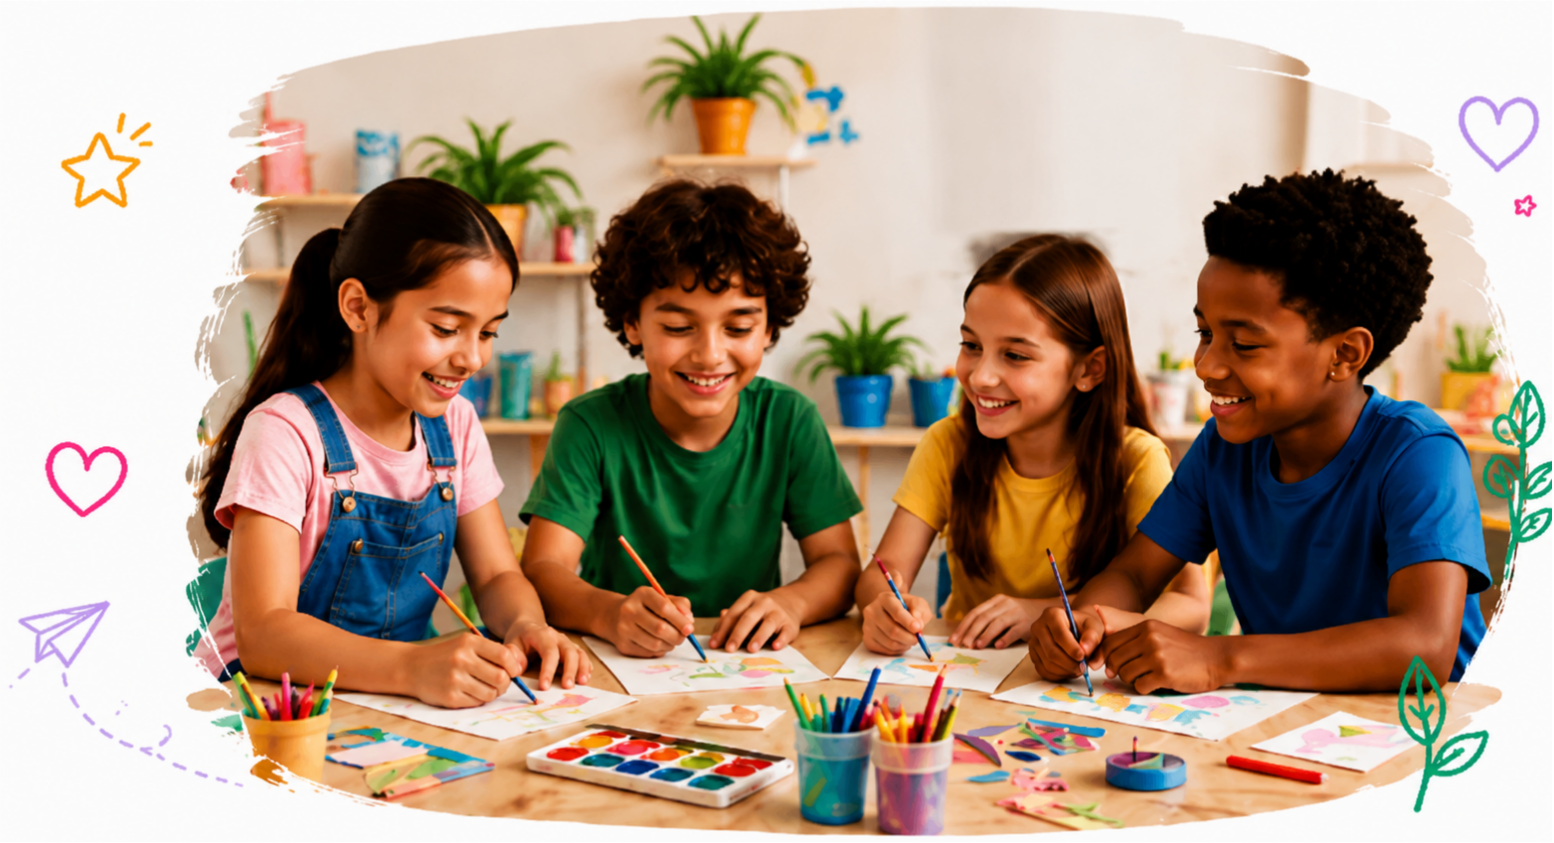
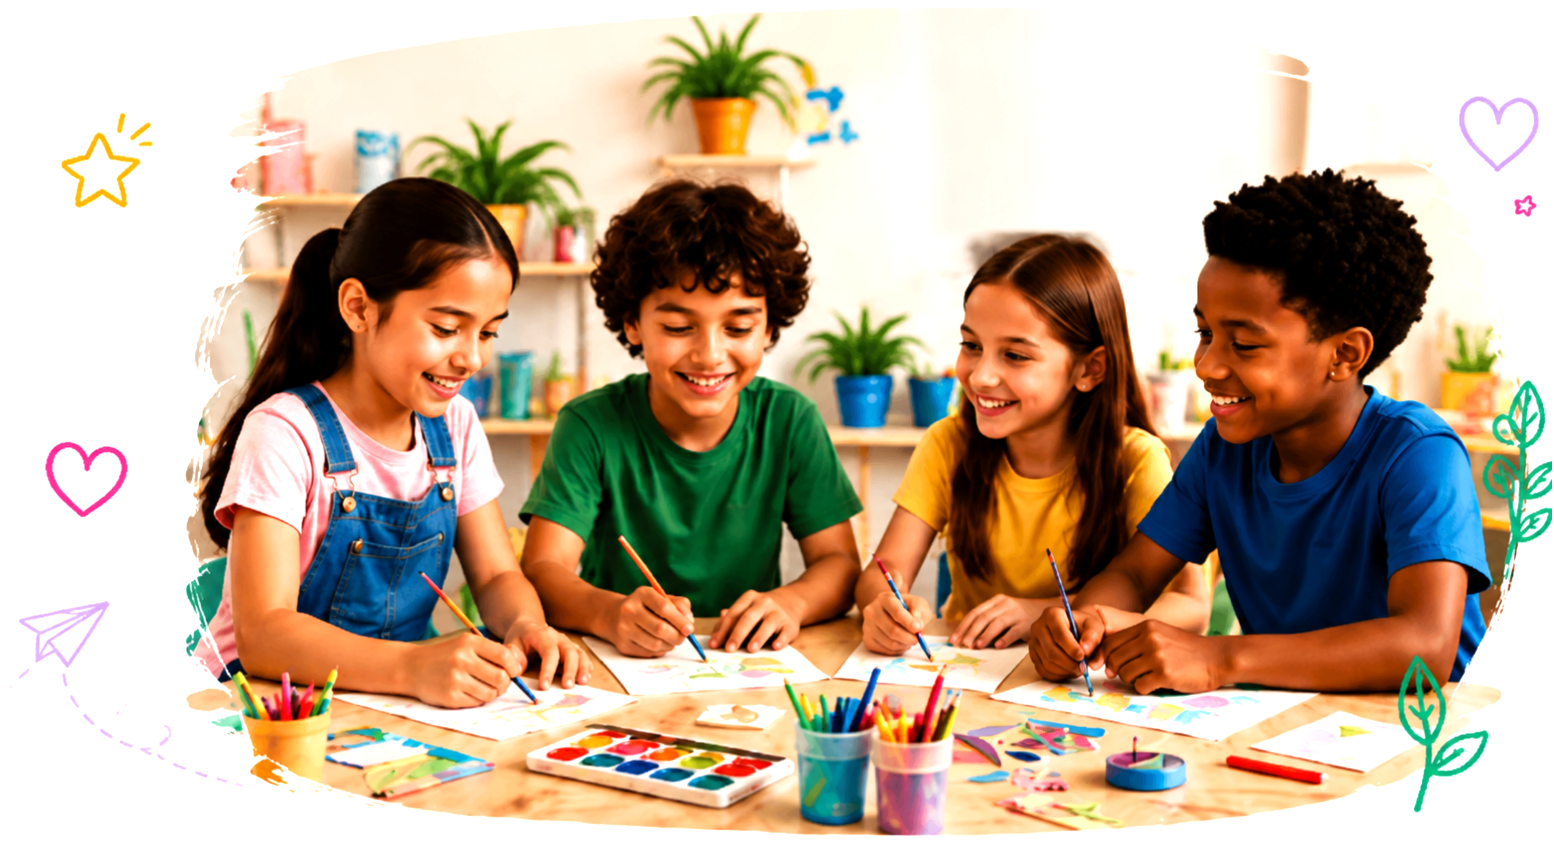
afssadf

diff --git a/assets/css/style.css b/assets/css/style.css
@@ -27262,8 +27262,8 @@ body.newsletter-success-open {
   .explore-page .page-hero.explore-hero picture img.explore-hero__banner {
     width: auto !important;
     max-width: 100% !important;
-    height: min(560px, calc(72vh - 50px)) !important;
-    max-height: min(560px, calc(72vh - 50px)) !important;
+    height: min(510px, calc(72vh - 80px)) !important;
+    max-height: min(510px, calc(72vh - 80px)) !important;
     object-fit: contain !important;
     object-position: right center !important;
     margin-left: auto !important;

diff --git a/template-parts/about-hero.php b/template-parts/about-hero.php
@@ -79,11 +79,19 @@ $about_hero_secondary_btn_link = bdc_get_acf_link(
 	),
 	$post_id
 );
-$about_hero_banner_url = bdc_get_acf_image_url(
+$about_hero_banner_theme_path  = 'assets/images/about-banner.png';
+$about_hero_banner_default_url = bdc_theme_asset_url( $about_hero_banner_theme_path );
+$about_hero_banner_url         = bdc_get_acf_image_url(
 	'about_hero_banner',
-	bdc_theme_asset_url( 'assets/images/about-banner.png' ),
+	$about_hero_banner_default_url,
 	$post_id
 );
+if ( $about_hero_banner_url === $about_hero_banner_default_url ) {
+	$about_hero_banner_ver = bdc_asset_version( $about_hero_banner_theme_path );
+	if ( $about_hero_banner_ver ) {
+		$about_hero_banner_url = add_query_arg( 'v', $about_hero_banner_ver, $about_hero_banner_url );
+	}
+}
 $about_hero_banner_alt = bdc_get_acf_text(
 	'about_hero_banner_alt',
 	'Children creating art together at Bright Dreamers Club',
